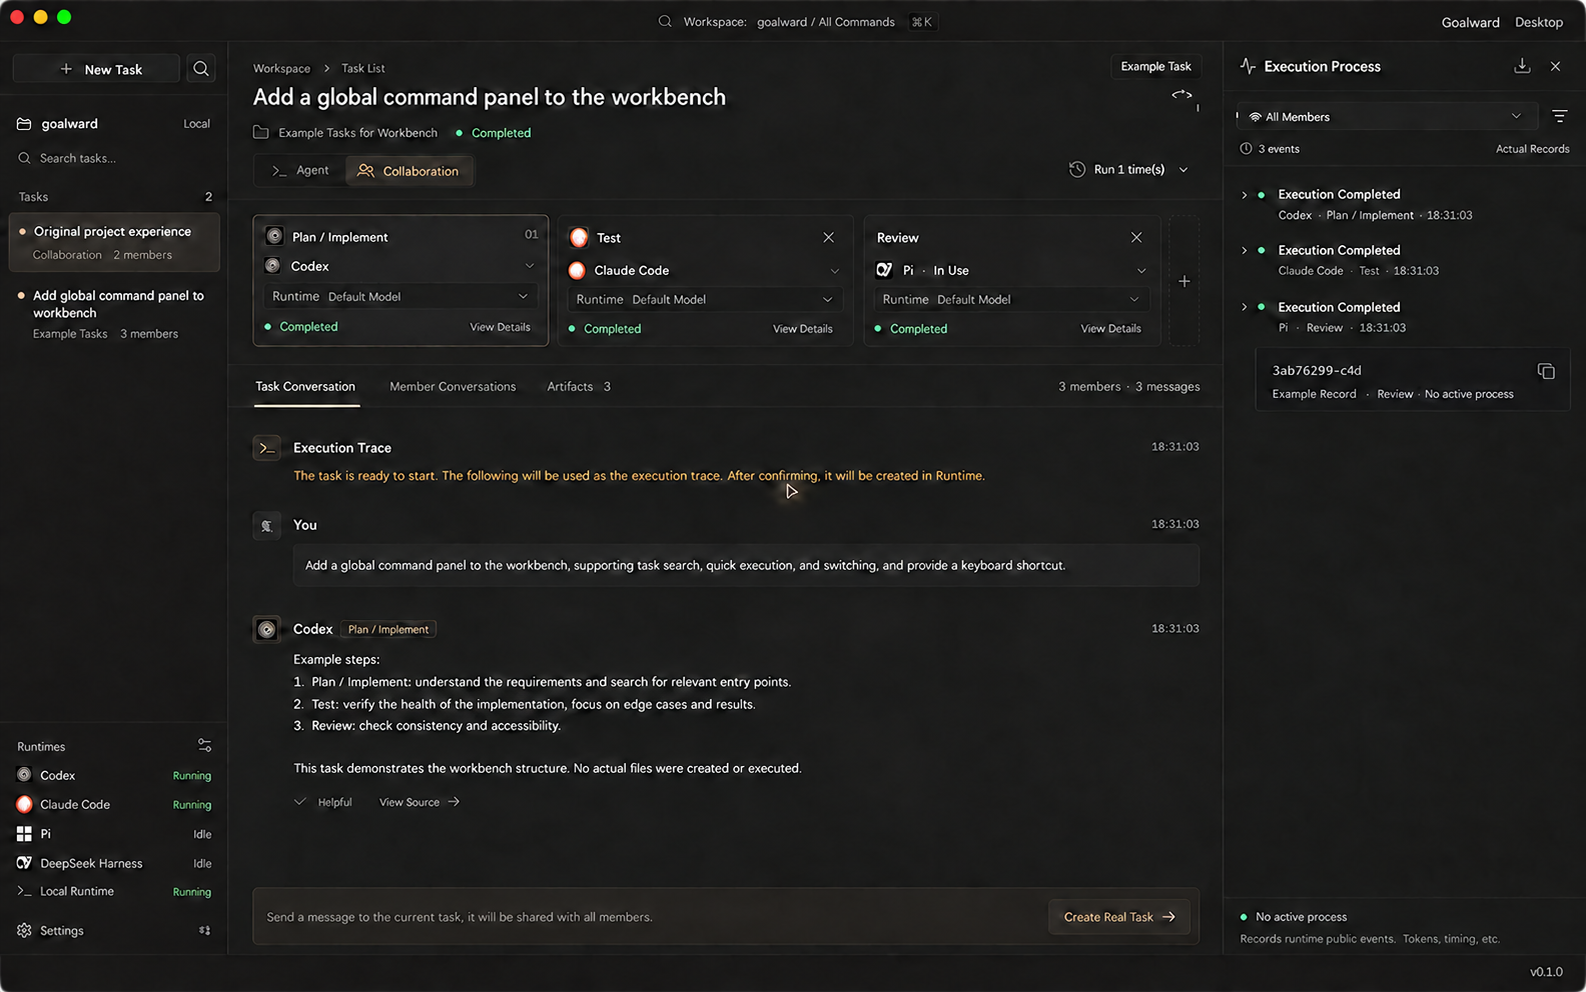
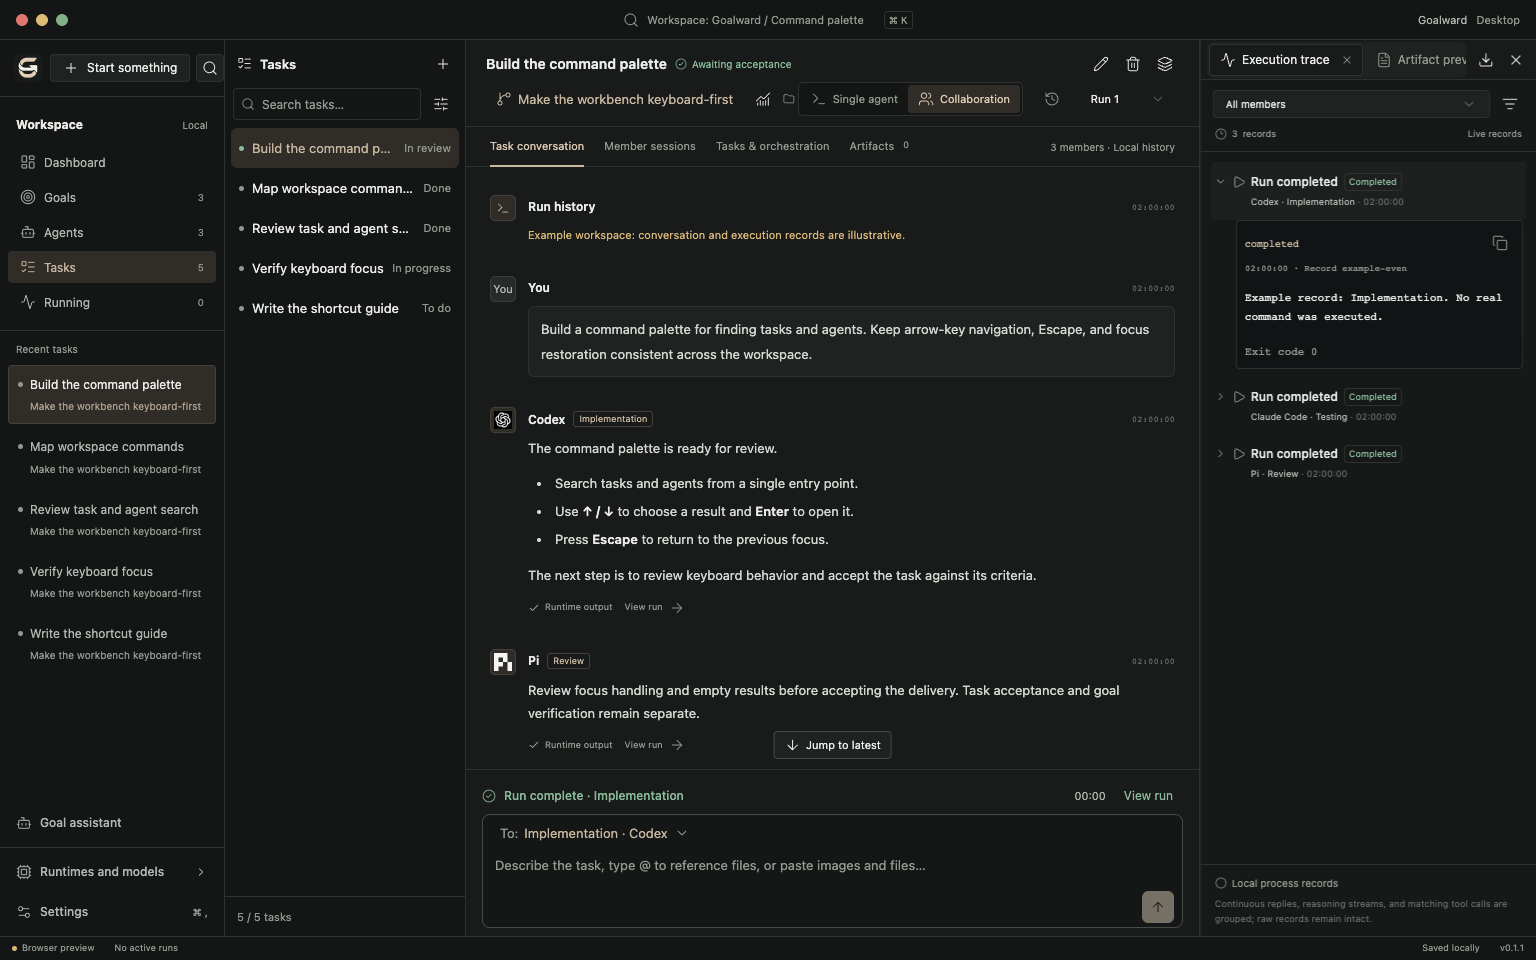
docs: refresh README screenshots for the current workspace (#22)

diff --git a/README.md b/README.md
@@ -8,7 +8,9 @@ Goalward is also a desktop proxy for coding agents: run them individually or tog
 
 **Supported agents:** Codex · Claude Code · Kimi CLI · Pi · DeepSeek Harness · Custom CLI runtimes
 
-![Goalward English workbench preview](screenshots/goalward-workbench-en.png)
+![Goalward goal overview with task delivery progress, success criteria, and working directories](screenshots/goalward-goals-en.png)
+
+*Goal overview in the current English interface. Screenshots use illustrative data in the browser preview; conversation and execution records are examples.*
 
 ## Download
 
@@ -46,6 +48,18 @@ Choose **System**, **Dark**, **Light**, or **Cobalt2** in **Settings → Appeara
 In **Settings → Appearance → Theme**, choose a local background picture below the theme selector, then adjust **Background image opacity** and **Interface background opacity** from 0–100%. Image opacity controls the picture's visibility; interface opacity controls how opaque the main panel colors are, while text and controls retain their own appearance. Changes apply immediately and save automatically. The desktop app keeps a private copy of the image in its data directory, so moving the original file does not break the background. Browser previews keep the image separately in browser storage. Images are limited to 32 MB; unsupported or damaged files show a recoverable error. Reduced transparency or increased contrast uses solid surfaces. See [background behavior and verification](docs/appearance-background.md).
 
 Goalward starts in Chinese or English based on your Mac's language; other system languages use English. To choose manually or return to the system default, use **Settings → Appearance → Language**. Runtime, model, execution, and storage configuration changes still use **Save Changes**. Changing appearance saves only appearance preferences and leaves other unsaved configuration edits in your draft.
+
+## Screenshots
+
+The Tasks workspace keeps the task list, goal link, conversation, message composer, and execution inspector together.
+
+![Goalward Tasks workspace with a goal-linked conversation and execution inspector](screenshots/goalward-workbench-en.png)
+
+Appearance settings include Cobalt2 alongside System, Dark, and Light themes, plus background image, opacity, language, and font controls.
+
+![Goalward Appearance settings with Cobalt2 selected and background, language, and font controls](screenshots/goalward-appearance-en.png)
+
+These screenshots show the current frontend at 1536 × 960 with sample workspace data. They do not show a live native agent execution. To refresh them with Google Chrome installed, start `npm run dev` and run `node scripts/readme-screenshots.mjs`; set `GOALWARD_SCREENSHOT_URL` if the development server uses a different address. The capture script also checks the three views at 1280 × 720.
 
 ## Data
 
